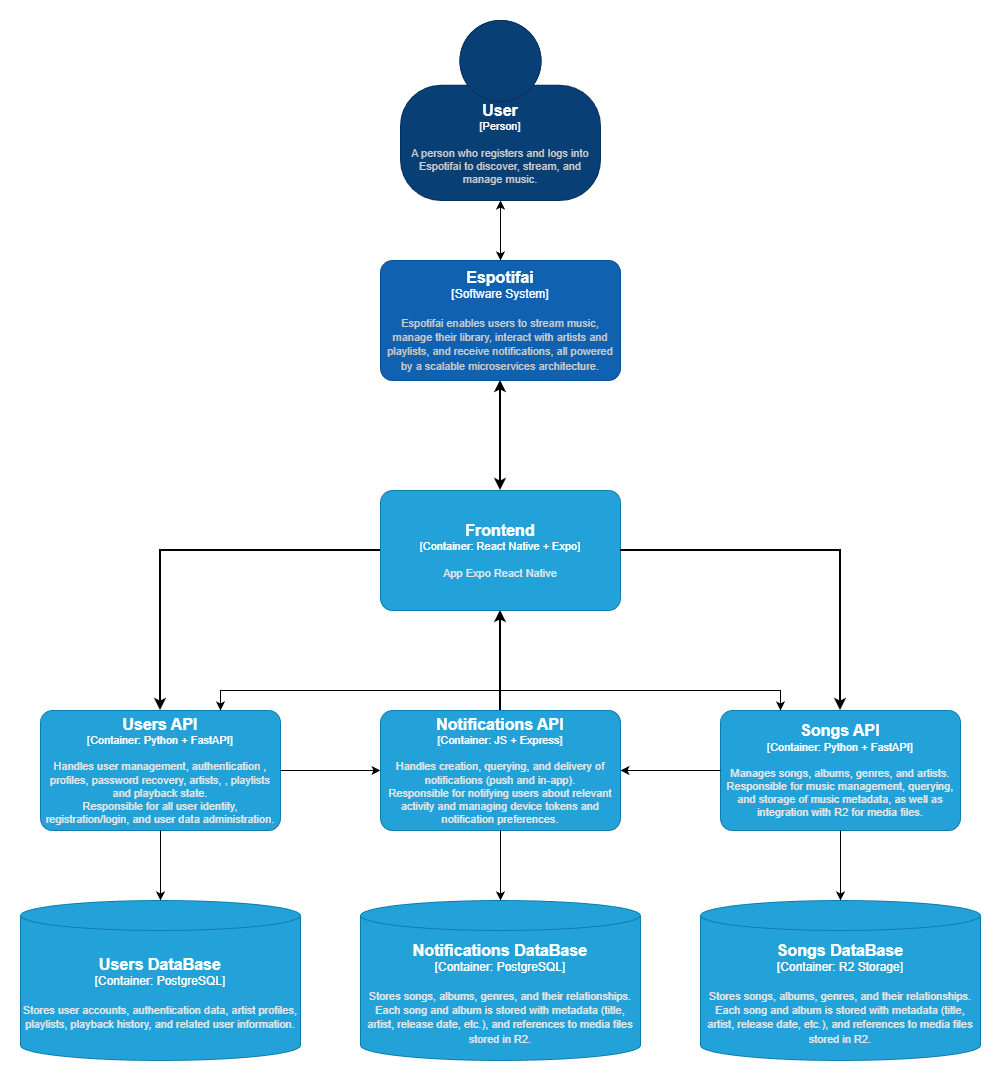
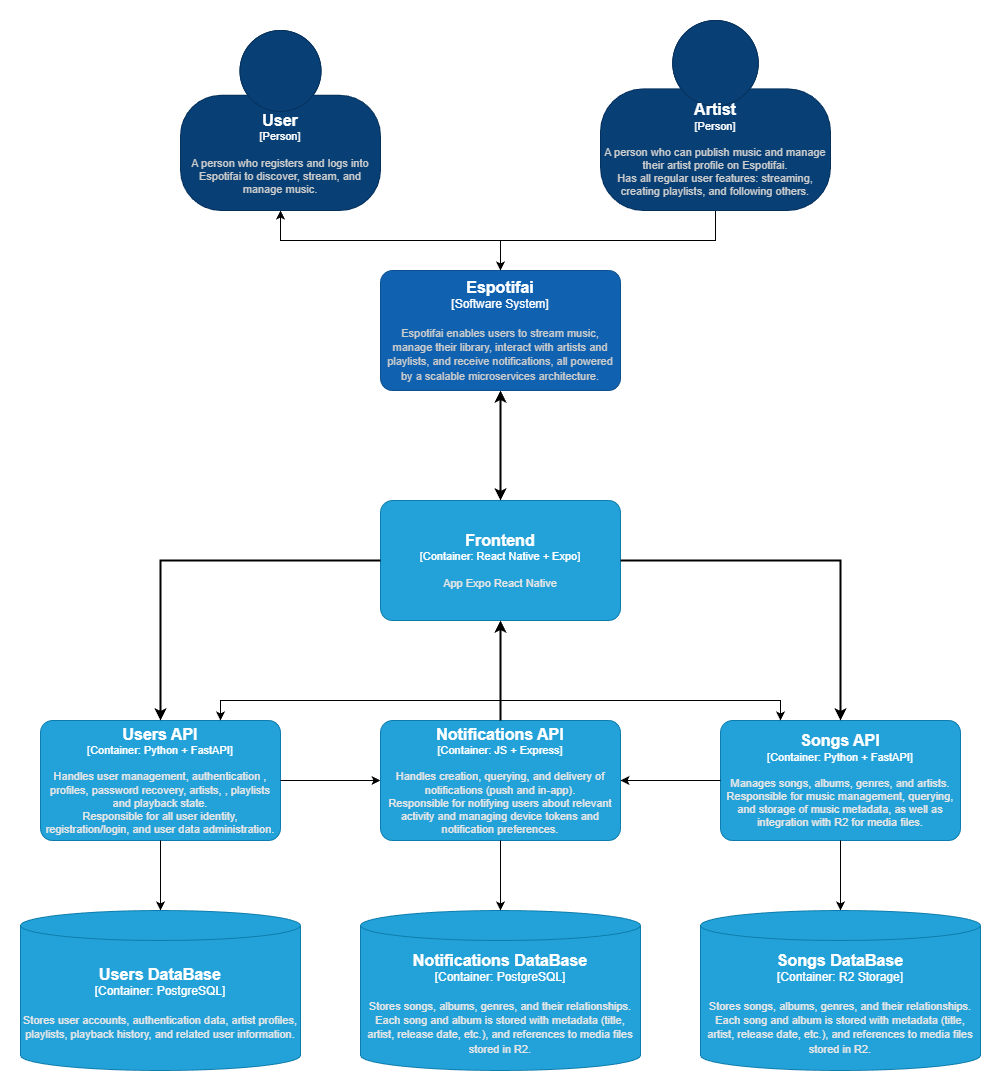
add ux prototypes and modify architecture

diff --git a/prototipos.md b/prototipos.md
@@ -1,0 +1,22 @@
+---
+layout: page
+title: Prototipos UX
+permalink: /prototipes/
+---
+
+<div style="max-width: 1200px; margin: 0 auto; padding: 0 24px;">
+  <div style="display: flex; gap: 24px; justify-content: center; flex-wrap: wrap;">
+    <div style="flex: 1 1 300px; text-align: center;">
+      <h3>Home</h3>
+      <img src="../assets/home_prototype.png" alt="Prototipo de pantalla Home" style="max-width: 100%; height: auto;">
+    </div>
+    <div style="flex: 1 1 300px; text-align: center;">
+      <h3>MyMusic</h3>
+      <img src="../assets/launch_prototype.png" alt="Prototipo de pantalla MyMusic" style="max-width: 100%; height: auto;">
+    </div>
+    <div style="flex: 1 1 300px; text-align: center;">
+      <h3>Search</h3>
+      <img src="../assets/search_prototype.png" alt="Prototipo de pantalla Search" style="max-width: 100%; height: auto;">
+    </div>
+  </div>
+</div>
